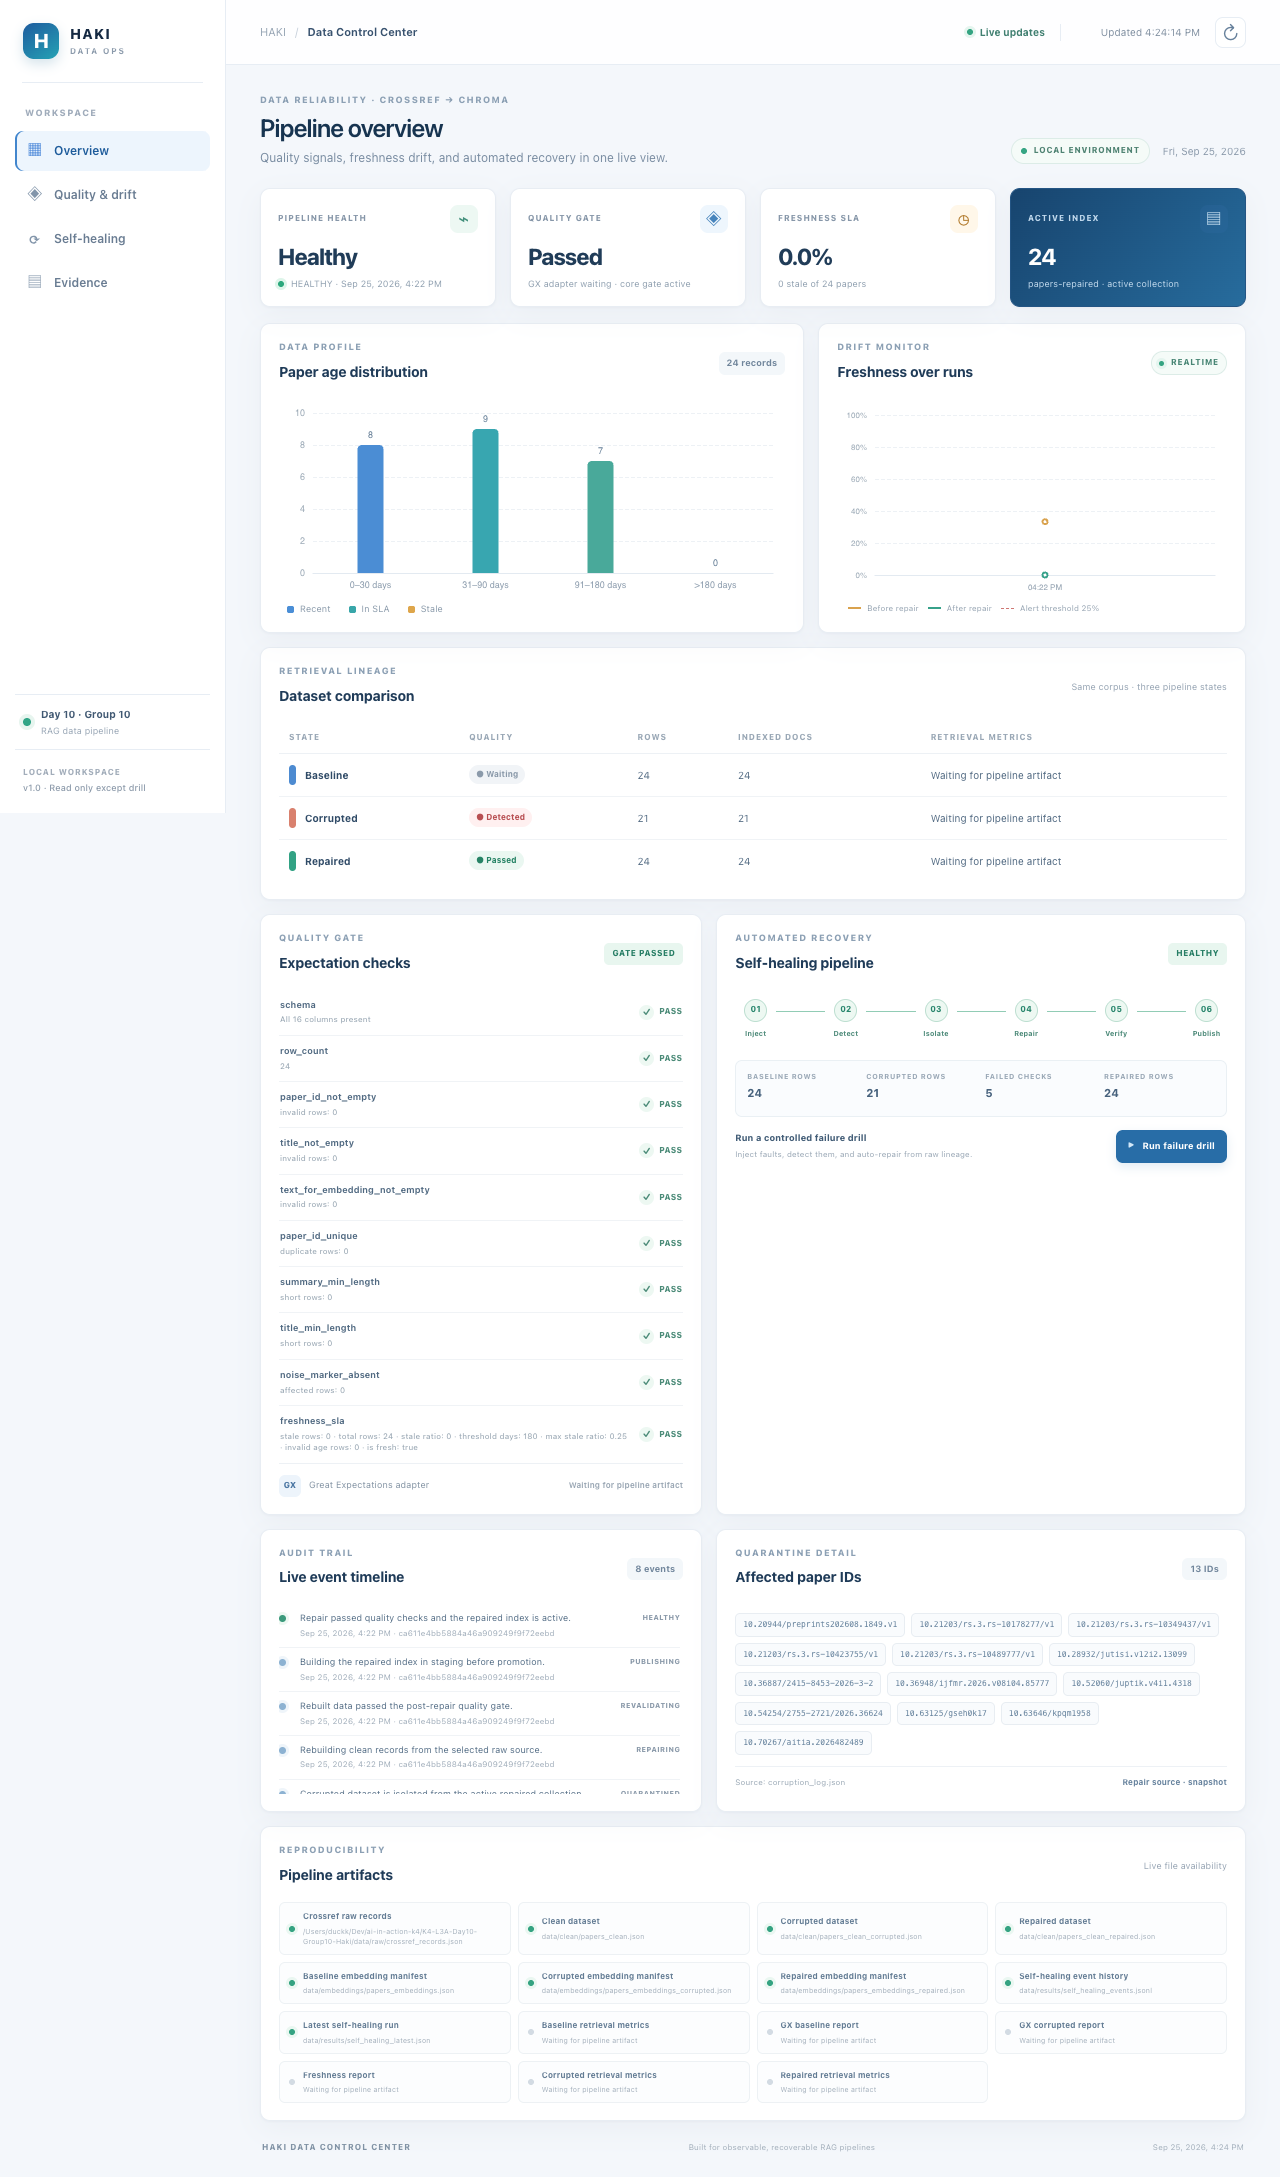
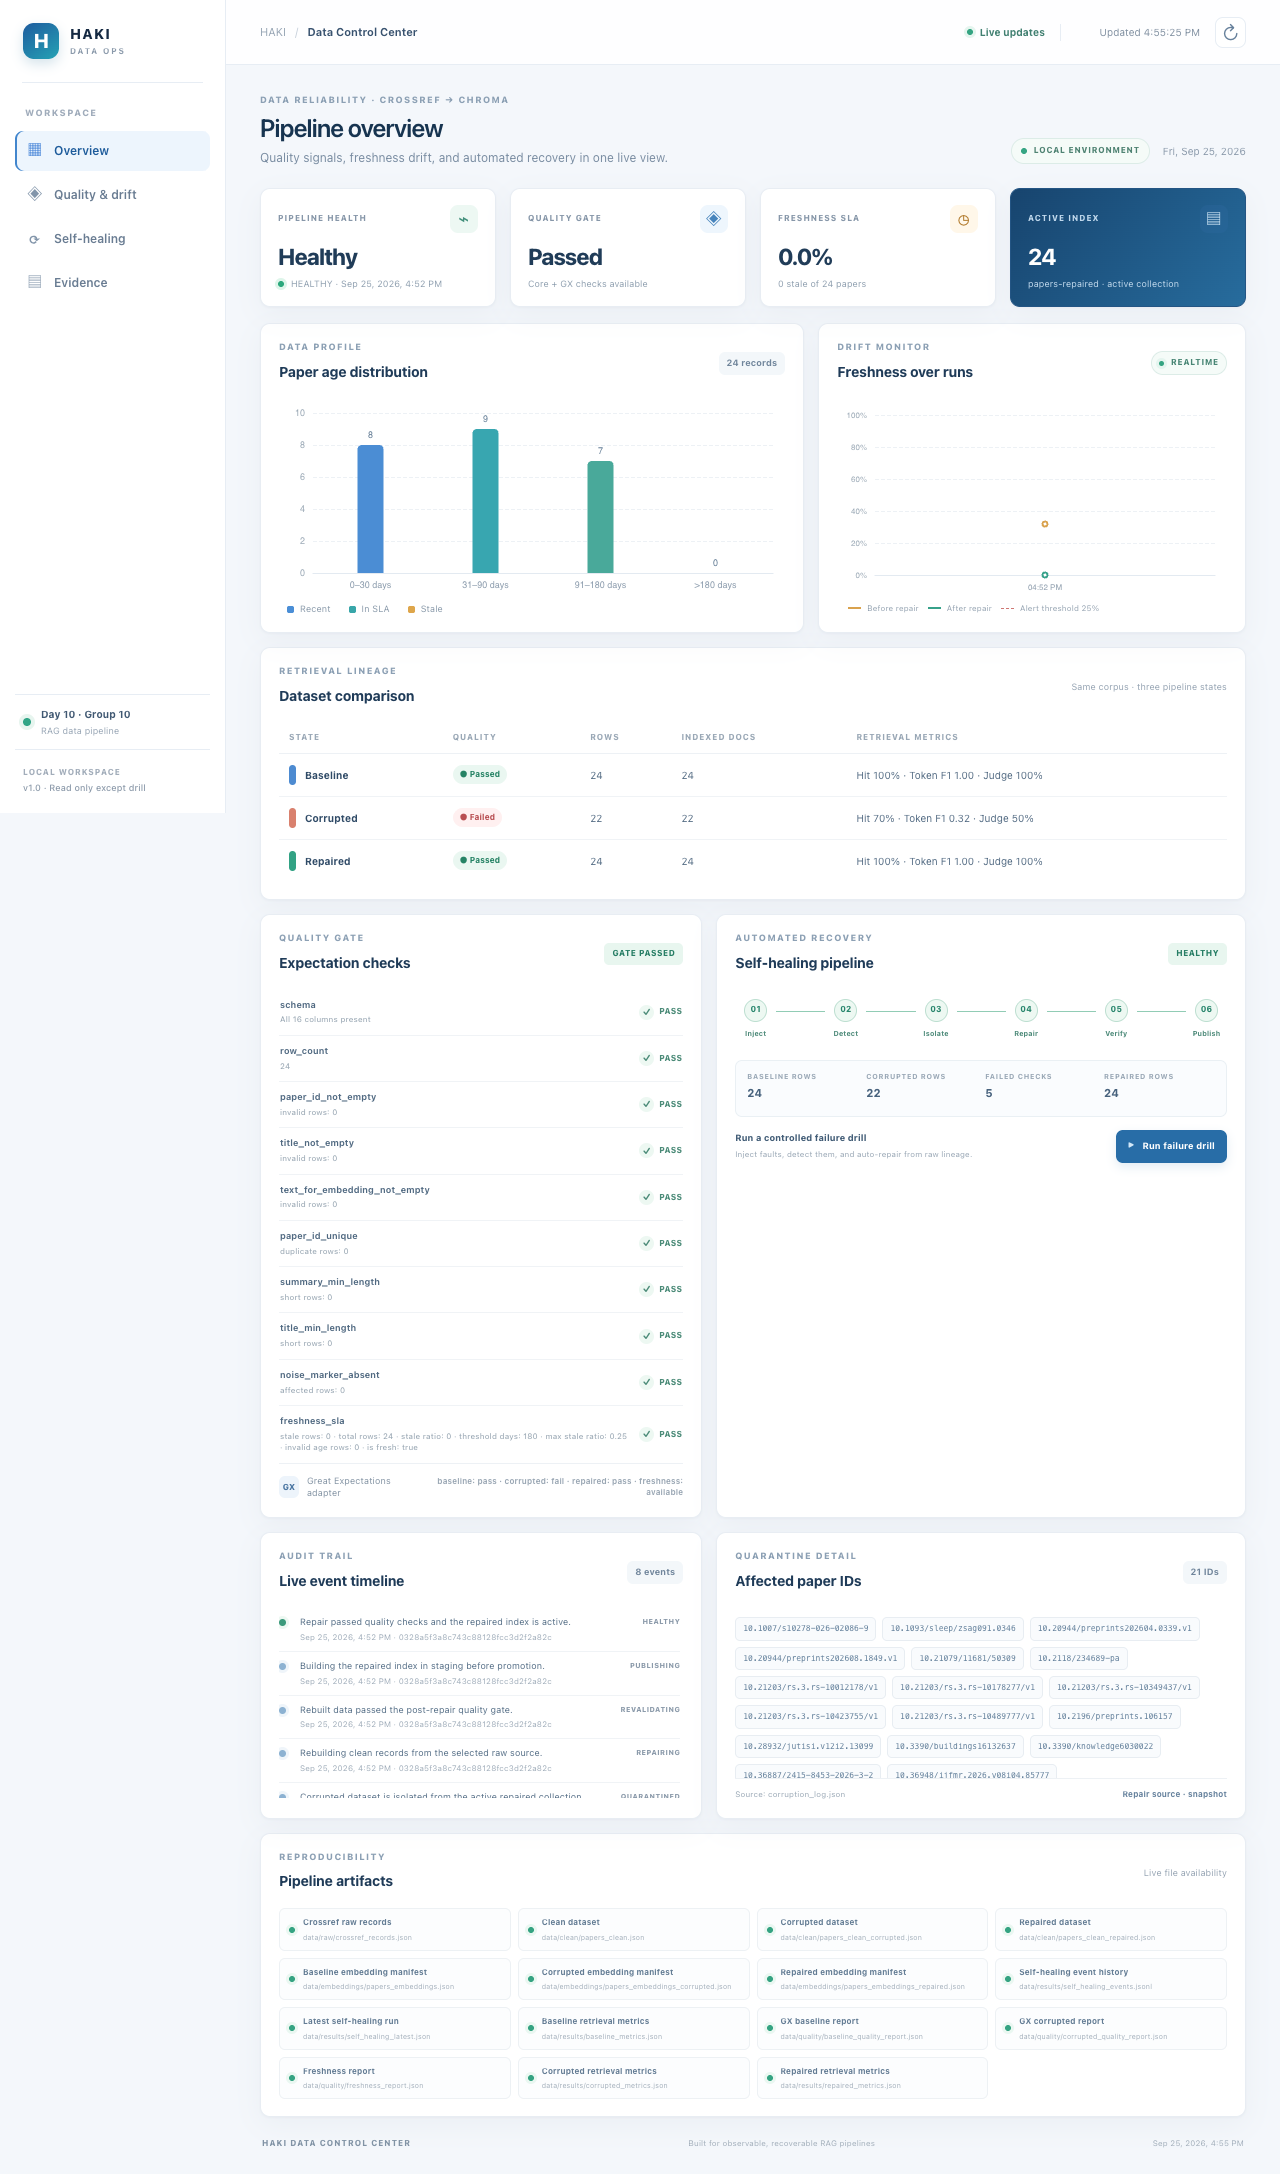
fix(dashboard): show integrated GX status and verified metrics

diff --git a/dashboard/static/app.js b/dashboard/static/app.js
@@ -16,6 +16,10 @@
   const safeMetric = (metricSet, name) => {
     if (!metricSet || typeof metricSet !== "object") return "Waiting for pipeline artifact";
     const flat = metricSet.metrics && typeof metricSet.metrics === "object" ? metricSet.metrics : metricSet;
+    if (typeof flat.retrieval_hit_rate === "number" && typeof flat.mean_token_f1 === "number") {
+      const judge = typeof flat.judge_accuracy === "number" ? ` · Judge ${(flat.judge_accuracy * 100).toFixed(0)}%` : "";
+      return `Hit ${(flat.retrieval_hit_rate * 100).toFixed(0)}% · Token F1 ${flat.mean_token_f1.toFixed(2)}${judge}`;
+    }
     const keys = Object.keys(flat);
     if (!keys.length) return "Metrics artifact available";
     return keys.slice(0, 3).map((key) => `${key}: ${typeof flat[key] === "number" ? flat[key].toFixed(3) : String(flat[key])}`).join(" · ");
@@ -33,7 +37,7 @@
     el("healthDetail").textContent = data.last_run ? `${data.latest_state} · ${prettyTime(data.last_run.updated_at)}` : "No self-healing run yet";
     const qualityStatus = data.quality?.status || "waiting";
     el("qualityValue").textContent = qualityStatus === "passed" ? "Passed" : qualityStatus === "failed" ? "Failed" : "Waiting";
-    el("qualitySub").textContent = data.quality?.gx_status === "waiting" ? "GX adapter waiting · core gate active" : data.quality?.gx_status === "passed" ? "Core + GX checks available" : "Waiting for pipeline artifact";
+    el("qualitySub").textContent = data.quality?.gx_status === "waiting" ? "GX adapter waiting · core gate active" : data.quality?.gx_status === "passed" ? "Core + GX checks available" : "GX checks reported failures";
     const freshness = data.freshness || {};
     el("freshnessValue").textContent = freshness.stale_ratio == null ? "—" : ratioLabel(freshness.stale_ratio);
     el("freshnessSub").textContent = freshness.total_rows ? `${countLabel(freshness.stale_rows)} stale of ${countLabel(freshness.total_rows)} papers` : "Waiting for clean dataset";
@@ -47,14 +51,15 @@
   }
 
   function renderComparison(data) {
+    const qualityLabel = (key) => ({ passed: "Passed", failed: "Failed", waiting: "Waiting" })[data.dataset_quality?.[key]] || "Waiting";
     const states = [
-      { key: "baseline", label: "Baseline", swatch: "baseline", quality: "Waiting", rows: data.datasets?.baseline?.rows, docs: data.datasets?.baseline?.documents },
-      { key: "corrupted", label: "Corrupted", swatch: "corrupted", quality: "Detected", rows: data.datasets?.corrupted?.rows, docs: data.datasets?.corrupted?.documents },
-      { key: "repaired", label: "Repaired", swatch: "repaired", quality: data.health === "healthy" ? "Passed" : "Waiting", rows: data.datasets?.repaired?.rows, docs: data.datasets?.repaired?.documents },
+      { key: "baseline", label: "Baseline", swatch: "baseline", quality: qualityLabel("baseline"), rows: data.datasets?.baseline?.rows, docs: data.datasets?.baseline?.documents },
+      { key: "corrupted", label: "Corrupted", swatch: "corrupted", quality: qualityLabel("corrupted"), rows: data.datasets?.corrupted?.rows, docs: data.datasets?.corrupted?.documents },
+      { key: "repaired", label: "Repaired", swatch: "repaired", quality: qualityLabel("repaired"), rows: data.datasets?.repaired?.rows, docs: data.datasets?.repaired?.documents },
     ];
     const body = states.map((row) => {
       const metricText = safeMetric(data.retrieval_metrics?.[row.key], row.key);
-      const qualityClass = row.quality === "Passed" ? "passed" : row.quality === "Detected" ? "failed" : "waiting";
+      const qualityClass = row.quality === "Passed" ? "passed" : row.quality === "Failed" ? "failed" : "waiting";
       return `<tr><td><span class="state-name"><i class="state-swatch ${row.swatch}"></i>${row.label}</span></td><td><span class="quality-pill ${qualityClass}">● ${row.quality}</span></td><td>${countLabel(row.rows)}</td><td>${countLabel(row.docs)}</td><td>${escapeHtml(metricText)}</td></tr>`;
     }).join("");
     el("comparisonBody").innerHTML = body;

diff --git a/dashboard/service.py b/dashboard/service.py
@@ -119,6 +119,7 @@ def _artifact_status(settings: Settings) -> list[dict[str, Any]]:
         ("Baseline retrieval metrics", settings.paths.baseline_metrics),
         ("GX baseline report", settings.paths.baseline_quality_report),
         ("GX corrupted report", settings.paths.corrupted_quality_report),
+        ("GX repaired report", settings.paths.quality_dir / "repaired_quality_report.json"),
         ("Freshness report", settings.paths.freshness_report),
         ("Corrupted retrieval metrics", settings.paths.corrupted_metrics),
         ("Repaired retrieval metrics", settings.paths.repaired_metrics),
@@ -150,8 +151,19 @@ def build_snapshot(settings: Settings) -> dict[str, Any]:
     gx_artifacts = {
         "baseline": _read_optional_json(settings.paths.baseline_quality_report),
         "corrupted": _read_optional_json(settings.paths.corrupted_quality_report),
+        "repaired": _read_optional_json(settings.paths.quality_dir / "repaired_quality_report.json"),
         "freshness": _read_optional_json(settings.paths.freshness_report),
     }
+
+    def dataset_quality(name: str) -> str:
+        report = gx_artifacts[name]
+        if not isinstance(report, dict):
+            return "waiting"
+        if report.get("success") is True:
+            return "passed"
+        if report.get("success") is False:
+            return "failed"
+        return "waiting"
 
     latest_state = latest.get("state") if latest else "WAITING"
     if latest_state == "HEALTHY":
@@ -192,6 +204,14 @@ def build_snapshot(settings: Settings) -> dict[str, Any]:
             }
         )
 
+    gx_status = "waiting"
+    if isinstance(quality_report, dict):
+        embedded_gx = quality_report.get("gx")
+        if isinstance(embedded_gx, dict):
+            gx_status = embedded_gx.get("status", "waiting")
+        elif quality_report.get("engine"):
+            gx_status = "passed" if quality_report.get("success") is True else "failed"
+
     return {
         "generated_at": datetime.now(UTC).isoformat(),
         "health": pipeline_health,
@@ -204,13 +224,10 @@ def build_snapshot(settings: Settings) -> dict[str, Any]:
             ) if isinstance(quality_report, dict) else "waiting",
             "report": quality_report,
             "checks": checks,
-            "gx_status": (
-                quality_report.get("gx", {}).get("status", "waiting")
-                if isinstance(quality_report, dict)
-                else "waiting"
-            ),
+            "gx_status": gx_status,
         },
         "gx_artifacts": gx_artifacts,
+        "dataset_quality": {name: dataset_quality(name) for name in ("baseline", "corrupted", "repaired")},
         "freshness": freshness,
         "age_distribution": _age_distribution(clean_rows),
         "datasets": {
@@ -235,6 +252,7 @@ def artifact_signature(settings: Settings) -> tuple[tuple[str, int | None], ...]
         settings.paths.self_healing_latest_json,
         settings.paths.baseline_quality_report,
         settings.paths.corrupted_quality_report,
+        settings.paths.quality_dir / "repaired_quality_report.json",
         settings.paths.freshness_report,
         settings.paths.baseline_metrics,
         settings.paths.corrupted_metrics,

diff --git a/tests/test_observability.py b/tests/test_observability.py
@@ -3,13 +3,17 @@ from __future__ import annotations
 
 from datetime import UTC, datetime
 from pathlib import Path
+import sys
 
 import pandas as pd
 import pytest
 
 from automation.quality_gate import CoreQualityGate
 from core.config import load_settings
-from core.utils import read_json
+from core.utils import read_json, write_json
+
+sys.path.insert(0, str(Path(__file__).resolve().parents[1]))
+from dashboard.service import build_snapshot
 from evaluation.metrics import _token_f1
 from evaluation.testset import build_test_set
 from ingestion.cleaning import rebuild_clean_dataframe_from_raw
@@ -147,6 +151,25 @@ def test_testset_skips_unanswerable_type(clean_df, settings):
 def test_report_and_dashboard_handle_missing_artifacts(settings):
     generate_corruption_report(settings.paths.comparison_report, {}, {}, {}, {}, {}, {}, {})
     assert "Chưa đủ artifacts" in build_dashboard(settings).read_text(encoding="utf-8")
+
+
+def test_realtime_dashboard_uses_actual_gx_quality_reports(settings):
+    reports = (
+        (settings.paths.baseline_quality_report, True),
+        (settings.paths.corrupted_quality_report, False),
+        (settings.paths.quality_dir / "repaired_quality_report.json", True),
+    )
+    for path, success in reports:
+        write_json(path, {"engine": "great_expectations 1.x", "success": success})
+
+    snapshot = build_snapshot(settings)
+
+    assert snapshot["dataset_quality"] == {
+        "baseline": "passed",
+        "corrupted": "failed",
+        "repaired": "passed",
+    }
+    assert snapshot["quality"]["gx_status"] == "passed"
 
 
 def test_hard_benchmark_leakage_filter_and_ci():
